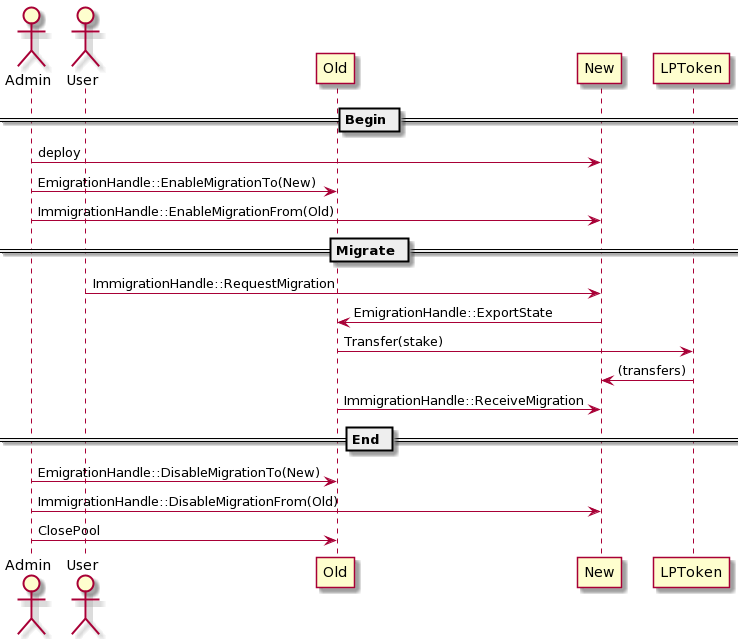
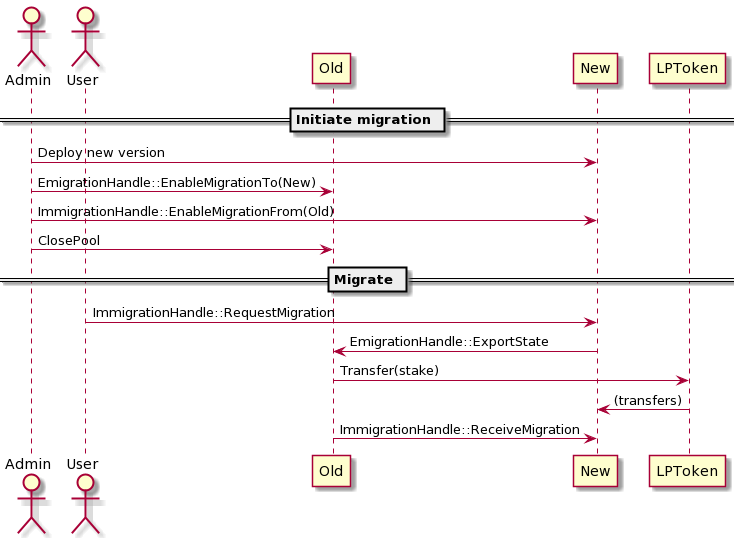
fix(rewards): migration works now

Changed region(s): [[0.0, 0.0, 0.9946, 1.0], [0.8703, 0.8327, 0.9946, 0.9517]]

diff --git a/dashboard/Dashboard.ts b/dashboard/Dashboard.ts
@@ -99,7 +99,8 @@ export default class Dashboard extends Component {
 
   performMigration () {
     if (this.rewards === this.rewards_v3) {
-      this.rpt.handle("Admin", {"configure":{"config":[["REWARDS_v4_addr","2500"]]}})
+      this.rewards = this.rewards_v4
+      this.rpt.handle("Admin", {"configure":{"config":[["REWARDS_V4_addr","2500"]]}})
       this.rpt.update()
       this.rewards_v3.handle("Admin", {
         emigration:{enable_migration_to:{

diff --git a/dashboard/contracts/TGE.ts b/dashboard/contracts/TGE.ts
@@ -105,9 +105,9 @@ export class Microservice extends Component {
   epoch = 0
 
   ui = {
-    title: this.add(h('header', { textContent: 'Microservice' })),
+    //title: this.add(h('header', { textContent: 'Microservice' })),
     epoch: this.add(Field('Epoch', this.epoch)),
-    next:  this.add(Button.make('NEXT', () => this.nextEpoch()))
+    //next:  this.add(Button.make('NEXT', () => this.nextEpoch()))
   }
 
   nextEpoch () {

diff --git a/dashboard/style/layout.css b/dashboard/style/layout.css
@@ -95,12 +95,16 @@ x-button:active {
 .Outside.Microservice {
   grid-column-start: 3; grid-column-end: 5;
   grid-row-start:    1; grid-row-end:    2;
+  display: flex;
+  flex-flow: row nowrap;
+  align-items: center;
 }
 .Inside.Microservice {
   display:         flex;
   flex-flow:       row nowrap;
   align-items:     center;
   justify-content: stretch;
+  flex-grow: 1;
 }
 .Inside.Microservice > * {
   flex-grow: 1;

diff --git a/dashboard/Cosmos.ts b/dashboard/Cosmos.ts
@@ -192,7 +192,7 @@ export class Environment extends Component {
   }
 
   ui = {
-    title: this.add(h('header', { textContent: 'Environment' })),
+    //title: this.add(h('header', { textContent: 'Environment' })),
     time:  this.add(Field('Time', `${this.time}s`)),
     rate:  this.add(Field('Speed', `${this.rate[0]}s per ${this.rate[1]}ms`)),
     start: this.add(Button.make('START', () => this.start())),

diff --git a/contracts/rewards/migration.rs b/contracts/rewards/migration.rs
@@ -94,23 +94,21 @@ pub trait Emigration<S: Storage, A: Api, Q: Querier>: Composable<S, A, Q>
         let receiver = self.can_export_state(env, migrant)?;
         let response = HandleResponse::default();
         if let Some(snapshot) = self.export_state(env, migrant)? {
-            let msg = self.wrap_serialize(snapshot)?;
+            let msg = self.wrap_receive_msg(ImmigrationHandle::ReceiveMigration(snapshot))?;
             response.msg(CosmosMsg::Wasm(WasmMsg::Execute {
                 contract_addr:      receiver.address,
                 callback_code_hash: receiver.code_hash,
-                send:               vec![],
-                msg: to_binary(&msg)?,
+                send: vec![],
+                msg,
             }))
         } else {
             Ok(response)
         }
     }
 
-    /// Override this to wrap ImmigrationHandle in contract's root Handle type,
+    /// Implement this to wrap ImmigrationHandle in contract's root Handle type,
     /// so that `{"receive_migration":...}` can become `{"immigration":{"receive_migration":...}`
-    fn wrap_serialize (&self, snapshot: Binary) -> StdResult<Binary> {
-        to_binary(&ImmigrationHandle::ReceiveMigration(snapshot))
-    }
+    fn wrap_receive_msg (&self, msg: ImmigrationHandle) -> StdResult<Binary>;
 
     /// Override this to return a serialized version of your migration snapshot object
     /// if you are migrating via snapshots.
@@ -181,15 +179,13 @@ pub trait Immigration<S: Storage, A: Api, Q: Querier>: Composable<S, A, Q>
             contract_addr:      prev.address,
             callback_code_hash: prev.code_hash,
             send:               vec![],
-            msg: self.wrap_serialize(env)?,
+            msg: self.wrap_export_msg(EmigrationHandle::ExportState(env.message.sender))?,
         }))
     }
 
-    /// Override this to wrap EmigrationHandle in contract's root Handle type.
+    /// Implement this to wrap EmigrationHandle in contract's root Handle type.
     /// so that `{"export_state":...}` can become `{"emigration":{"export_state":...}`
-    fn wrap_serialize (&self, env: Env) -> StdResult<Binary> {
-        to_binary(&EmigrationHandle::ExportState(env.message.sender))
-    }
+    fn wrap_export_msg (&self, msg: EmigrationHandle) -> StdResult<Binary>;
 
     /// Override this to emit the corresponding messages, if migrating via transactions
     fn handle_receive_migration (&mut self, env: Env, data: Binary) -> StdResult<HandleResponse> {

diff --git a/contracts/rewards/lib.rs b/contracts/rewards/lib.rs
@@ -198,14 +198,14 @@ pub enum Response {
                     contract_addr:      receiver.address,
                     callback_code_hash: receiver.code_hash,
                     send: vec![],
-                    msg: self.receive_migration_msg(snapshot)?
+                    msg: self.wrap_receive_msg(ImmigrationHandle::ReceiveMigration(snapshot))?
                 }))?;
 
                 Ok(response)
             }
 
-            fn receive_migration_msg (&self, snapshot: Binary) -> StdResult<Binary> {
-                to_binary(&Handle::Immigration(ImmigrationHandle::ReceiveMigration(snapshot)))
+            fn wrap_receive_msg (&self, msg: ImmigrationHandle) -> StdResult<Binary> {
+                to_binary(&Handle::Immigration(msg))
             }
         }
 
@@ -215,17 +215,22 @@ pub enum Response {
             {
                 let (migrant, vk, staked): AccountSnapshot = from_slice(&data.as_slice())?;
                 let id = self.canonize(migrant.clone())?;
+                // Set the migrant's viewing key
                 if let Some(vk) = vk {
                     // for some reason it does not see Auth as implemented
                     //Auth::save_vk(&mut core, id.as_slice(), &vk)?;
                     self.set_ns(crate::auth::VIEWING_KEYS, id.as_slice(), &vk)?;
                 }
-                Account::from_env(self, &env)?.commit_deposit(self, staked)?;
-                HandleResponse::default().log("migrated", &staked.to_string())
+                // Add the LP tokens transferred by the migration
+                // to the migrant's new account
+                Account::from_addr(self, &migrant, env.block.time)?
+                    .commit_deposit(self, staked)?;
+                HandleResponse::default()
+                    .log("migrated", &staked.to_string())
             }
 
-            fn export_state_msg (&self, env: Env) -> StdResult<Binary> {
-                to_binary(&Handle::Emigration(EmigrationHandle::ExportState(env.message.sender)))
+            fn wrap_export_msg (&self, msg: EmigrationHandle) -> StdResult<Binary> {
+                to_binary(&Handle::Emigration(msg))
             }
         }
 

diff --git a/contracts/rewards/README.md b/contracts/rewards/README.md
@@ -109,6 +109,6 @@ To migrate:
 2. Enable migration to new contract in old contract
 3. Enable migration from old contract in new contract
 4. Each user calls RequestMigration to move from old to new contract
-5. When migration window is over, call ClosePool on old contract
+5. Call ClosePool on old contract
 
 ![](./doc/migration_flow.png)
